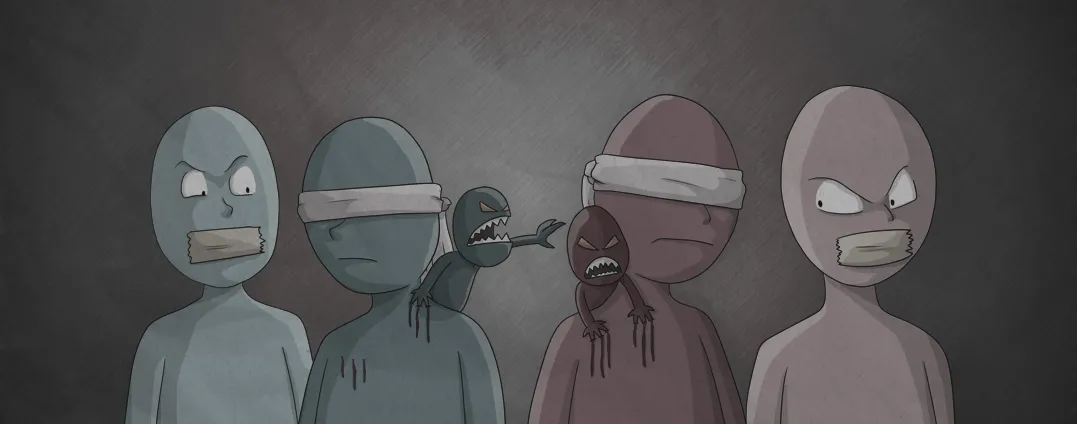
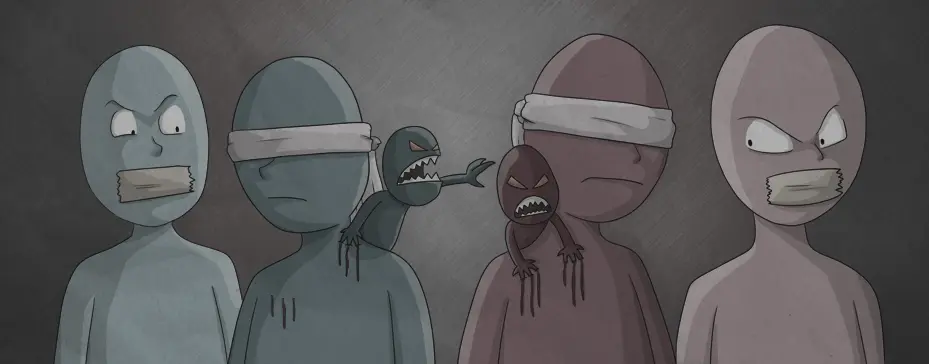
berne + filtres

diff --git a/assets/scss/custom.scss b/assets/scss/custom.scss
@@ -235,7 +235,7 @@ h3.section-title,
                 filter: grayscale(0%) brightness(95%);
             }
             .article-image img {
-                filter: grayscale(50%) brightness(70%);
+                filter: grayscale(40%) brightness(75%);
                 transition: filter 0.3s ease-in;
             }
         }
